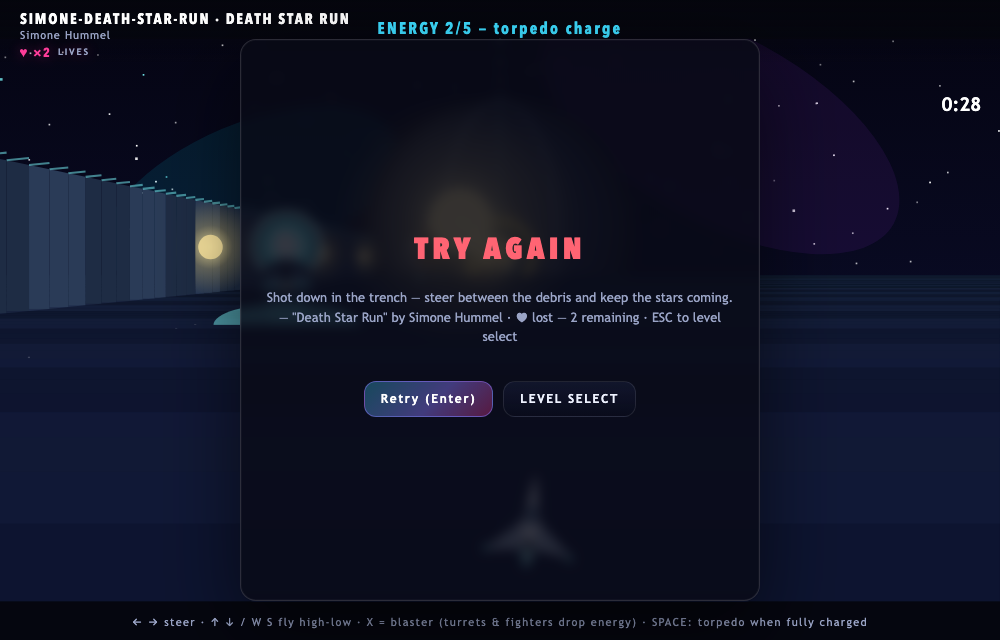
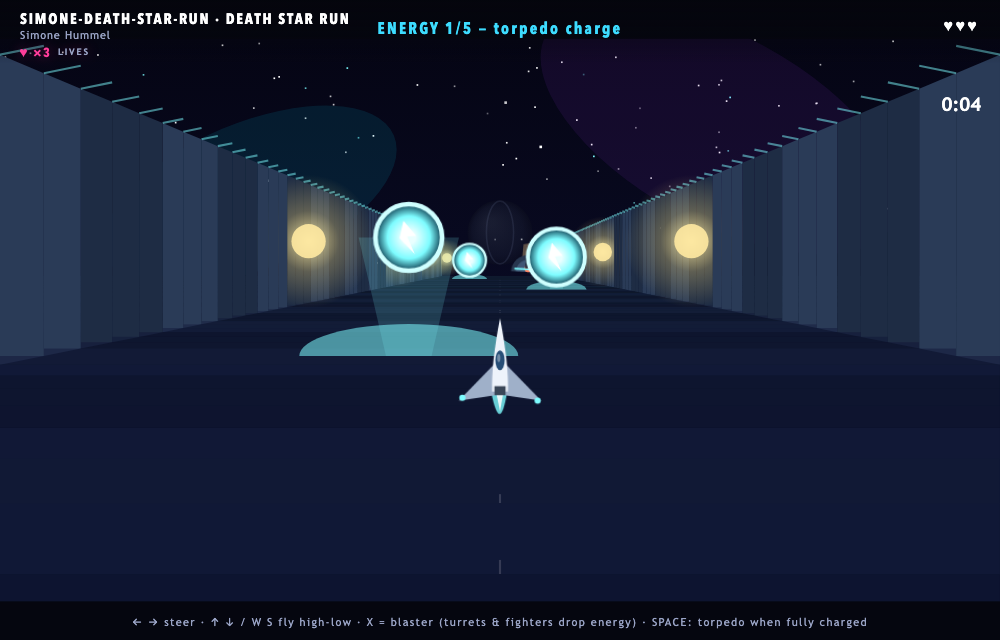
fix(rig): sim.py launches muted + captures phase shots unconditionally (#37)
E2E findings F1+F4 from /test_e2e 29 (PR #29):

- F1: launch(headless=True) without args=['--mute-audio'] violated the
  standing booth run-silent rule (playtest.py:255 carries it as a comment).
- F4: the 'not os.path.exists' guard made the first-ever phase shot sticky:
  a stale death-overlay capture from an earlier dev run (timer 0:28, TRY
  AGAIN) shipped as committed evidence next to a sim-results.json PASS whose
  up-phase crossing happens at ~0:03. Capture unconditionally so shots always
  match the run that wrote the results. Fresh GREEN run re-captured the pair:
  up-shot alive/high at 0:01, down-shot floor-pinned at 0:03.

Re-driven: all 5 phases + boot gate PASS after both fixes.

diff --git a/levels/simone-death-star-run/sim.py b/levels/simone-death-star-run/sim.py
@@ -116,7 +116,8 @@ def run():
     try:
         from playwright.sync_api import sync_playwright
         with sync_playwright() as pw:
-            browser = pw.chromium.launch(headless=True)
+            # booth rule: the game never makes sound (matches tools/playtest/playtest.py:255)
+            browser = pw.chromium.launch(headless=True, args=["--mute-audio"])
             page = browser.new_page(viewport={"width": 1000, "height": 640})
             console, perr = [], []
             page.on("console", lambda m: console.append("%s:%s" % (m.type, m.text)) if m.type in ("error", "warning") else None)
@@ -140,10 +141,13 @@ def run():
                 ys = [s["playerY"] for s in samples if s["playerY"] is not None]
                 statuses = {s["status"] for s in samples}
                 shot = None
-                if direction > 0 and hit and not os.path.exists(shots["up"]):
+                # capture unconditionally on every passing phase: a exists-guard made the
+                # first-ever shot sticky, so stale captures from an older dev run shipped
+                # alongside fresh sim-results.json and contradicted it (E2E finding F4)
+                if direction > 0 and hit:
                     page.screenshot(path=shots["up"])  # ship visibly high — visual evidence
                     shot = "up"
-                if direction < 0 and hit and not os.path.exists(shots["down"]):
+                if direction < 0 and hit:
                     page.screenshot(path=shots["down"])  # ship visibly low — visual evidence
                     shot = "down"
                 # the crossing must happen DURING this hold: net movement in the
